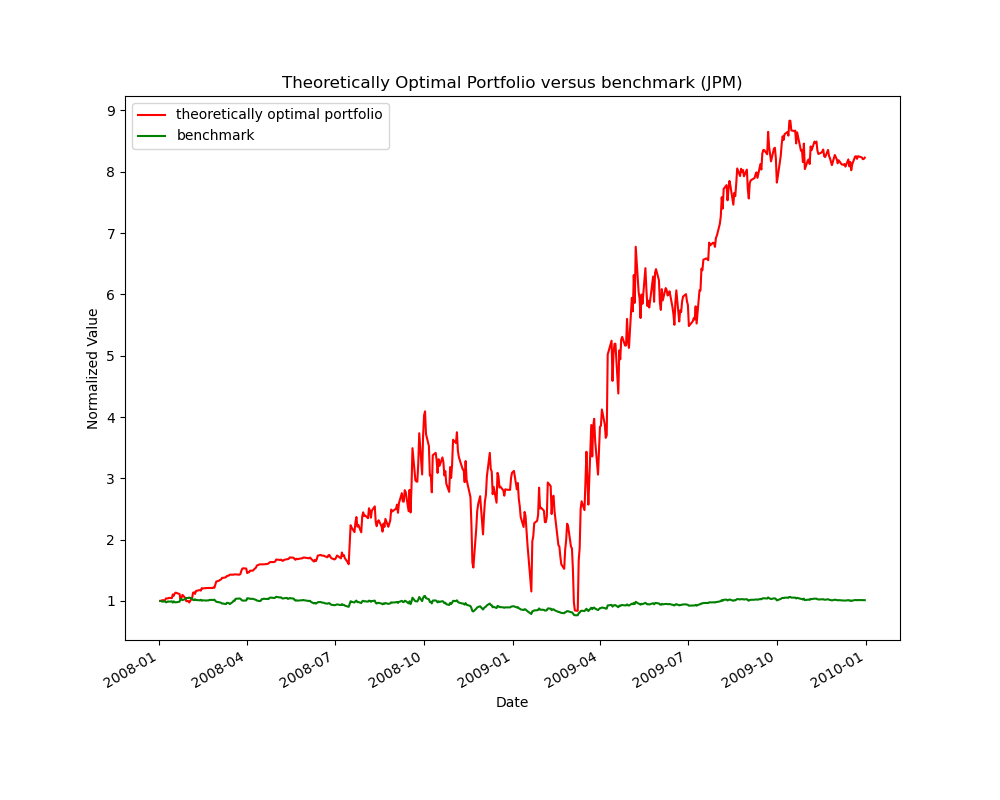
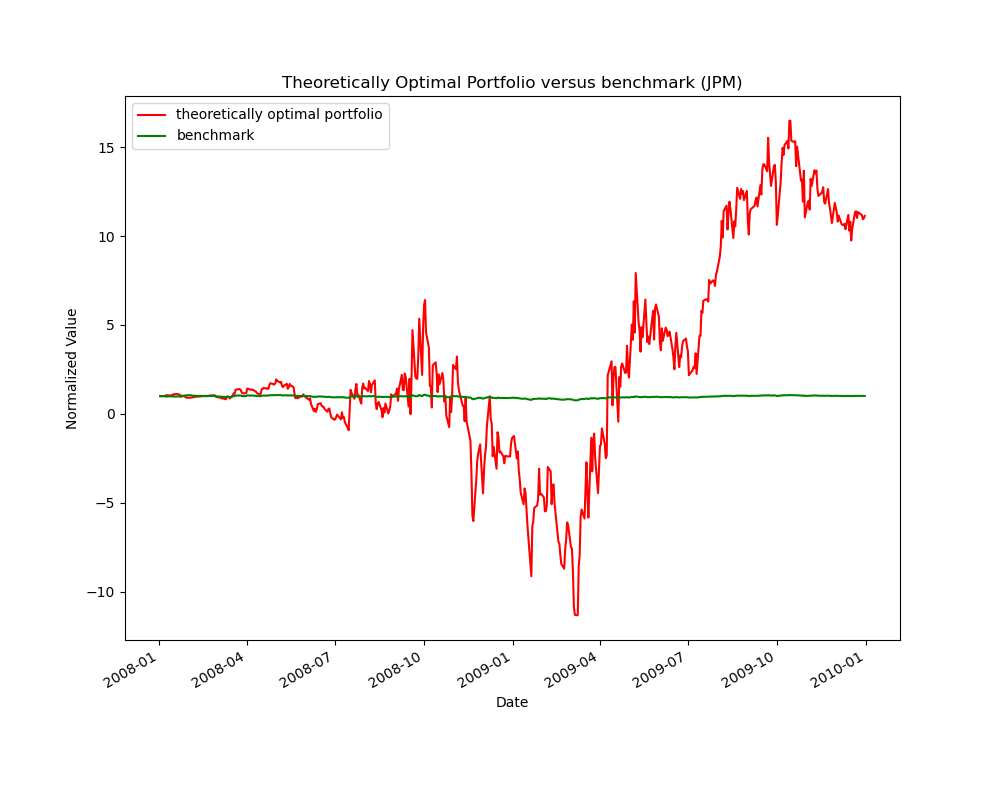
project 6 wip

diff --git a/indicator_evaluation/TheoreticallyOptimalStrategy.py b/indicator_evaluation/TheoreticallyOptimalStrategy.py
@@ -51,41 +51,35 @@ def compute(symbol, sd, ed, sv): # symbol, start date, end date, start value of 
 
 	for date in all_dates:
 		price = stock_data[symbol][date]
-		if prev_price and not np.isnan(price):
-			delta = price - prev_price
-			if delta > 0:
+		delta = price - prev_price
+		prev_trade = 0
+		if delta > 0:
+			if current_position != 1000:
 				prev_trade = 1000 - current_position
 				current_position = 1000
-			elif delta < 0:
+			else:
+				prev_trade = 0
+				current_position = -1000
+		elif delta < 0:
+			if current_position != -1000:
 				prev_trade = -1000 - current_position
 				current_position = -1000
 			else:
-				prev_trade = 0 - current_position
-				current_position = 0
+				prev_trade = 0
+				current_position = -1000
+		# elif delta == 0:
+		# 	prev_trade = 0 - current_position
+		# 	current_position = 0
 
-			if prev_trade != 0:
-				# output['Date'].append(prev_date.strftime('%Y-%m-%d'))
-				output['Date'].append(prev_date)
-				# output['Symbol'].append(symbol)
-				# if prev_trade > 0:
-				# 	output['Order'].append('BUY')
-				# else:
-				# 	output['Order'].append('SELL')
-				# output['Shares'].append(np.abs(prev_trade))
-				output['Trade'].append(prev_trade)
+		if prev_trade != 0:
+			output['Date'].append(prev_date)
+			output['Trade'].append(prev_trade)
 
 		prev_price = price
 		prev_date = date
 
 	# cover final position
-	# output['Date'].append(prev_date.strftime('%Y-%m-%d'))
 	output['Date'].append(prev_date)
-	# output['Symbol'].append(symbol)
-	# if current_position > 0:
-	# 	output['Order'].append('SELL')
-	# else:
-	# 	output['Order'].append('BUY')
-	# output['Shares'].append(np.abs(current_position))
 	output['Trade'].append(-current_position)
 	current_position = 0
 
@@ -116,7 +110,7 @@ def testPolicy(symbol, sd, ed, sv): # symbol, start date, end date, start value 
 
 if __name__ == "__main__":
 	print('main code here')
-	df_test = testPolicy(symbol="JPM", sd=dt.datetime(2010, 1, 1), ed=dt.datetime(2010, 1, 7), sv=100000)
+	df_test = testPolicy(symbol="JPM", sd=dt.datetime(2009, 1, 1), ed=dt.datetime(2009, 1, 7), sv=100000)
 	test_values = marketsimcode.compute_portvals(orders_df=df_test, start_val=100000, commission=0, impact=0)
 
 	cum, std, mean = compute_statistics(test_values)
